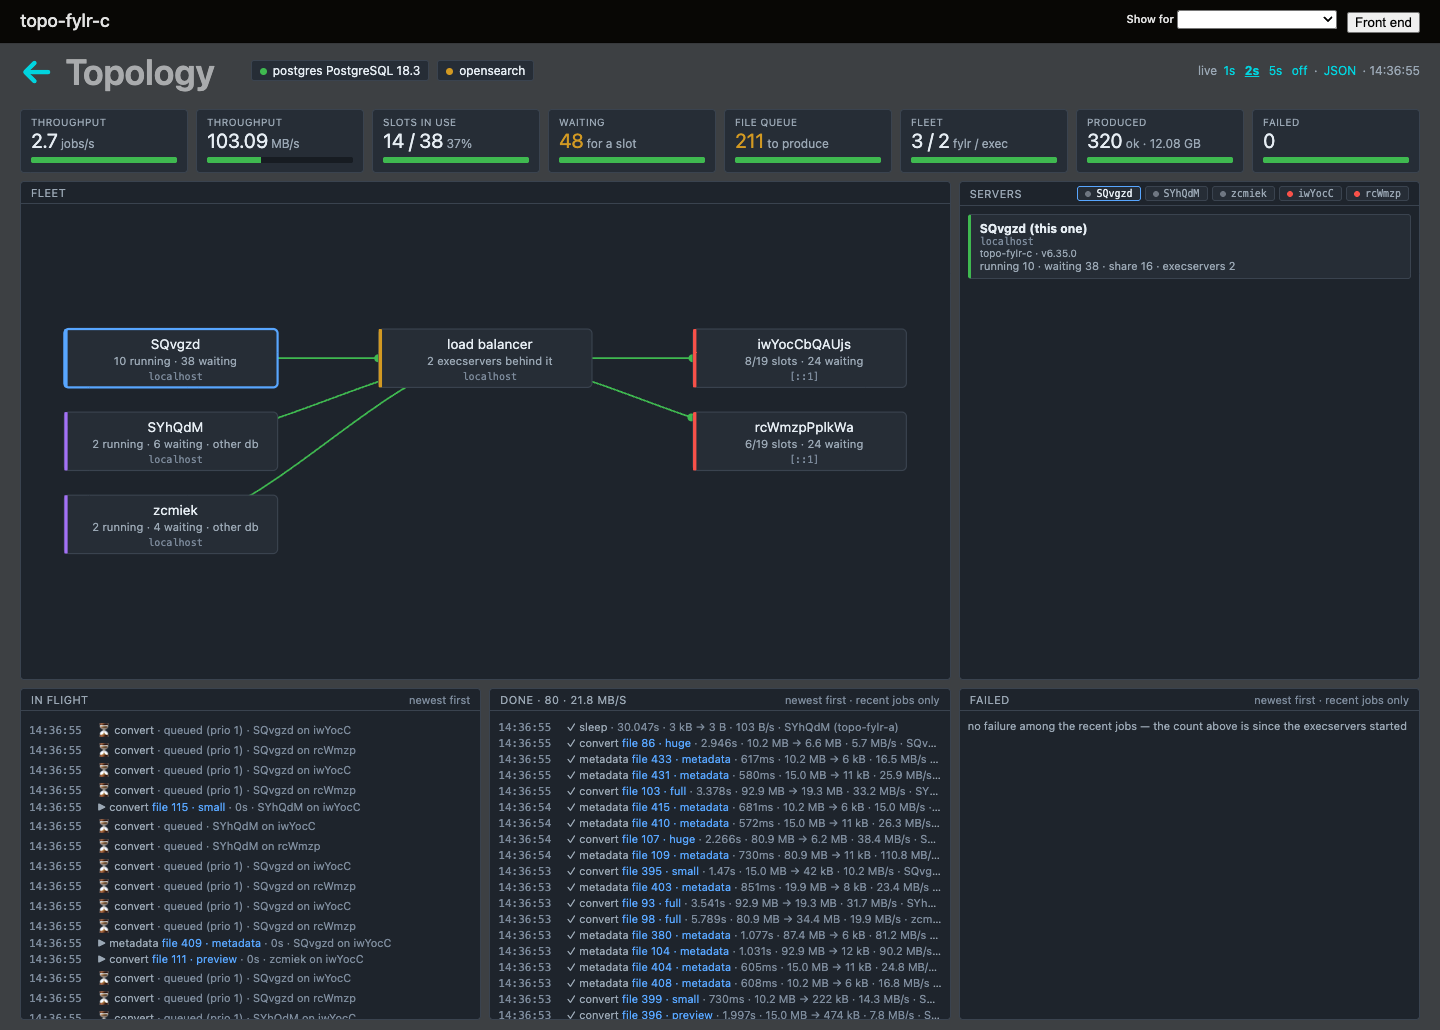
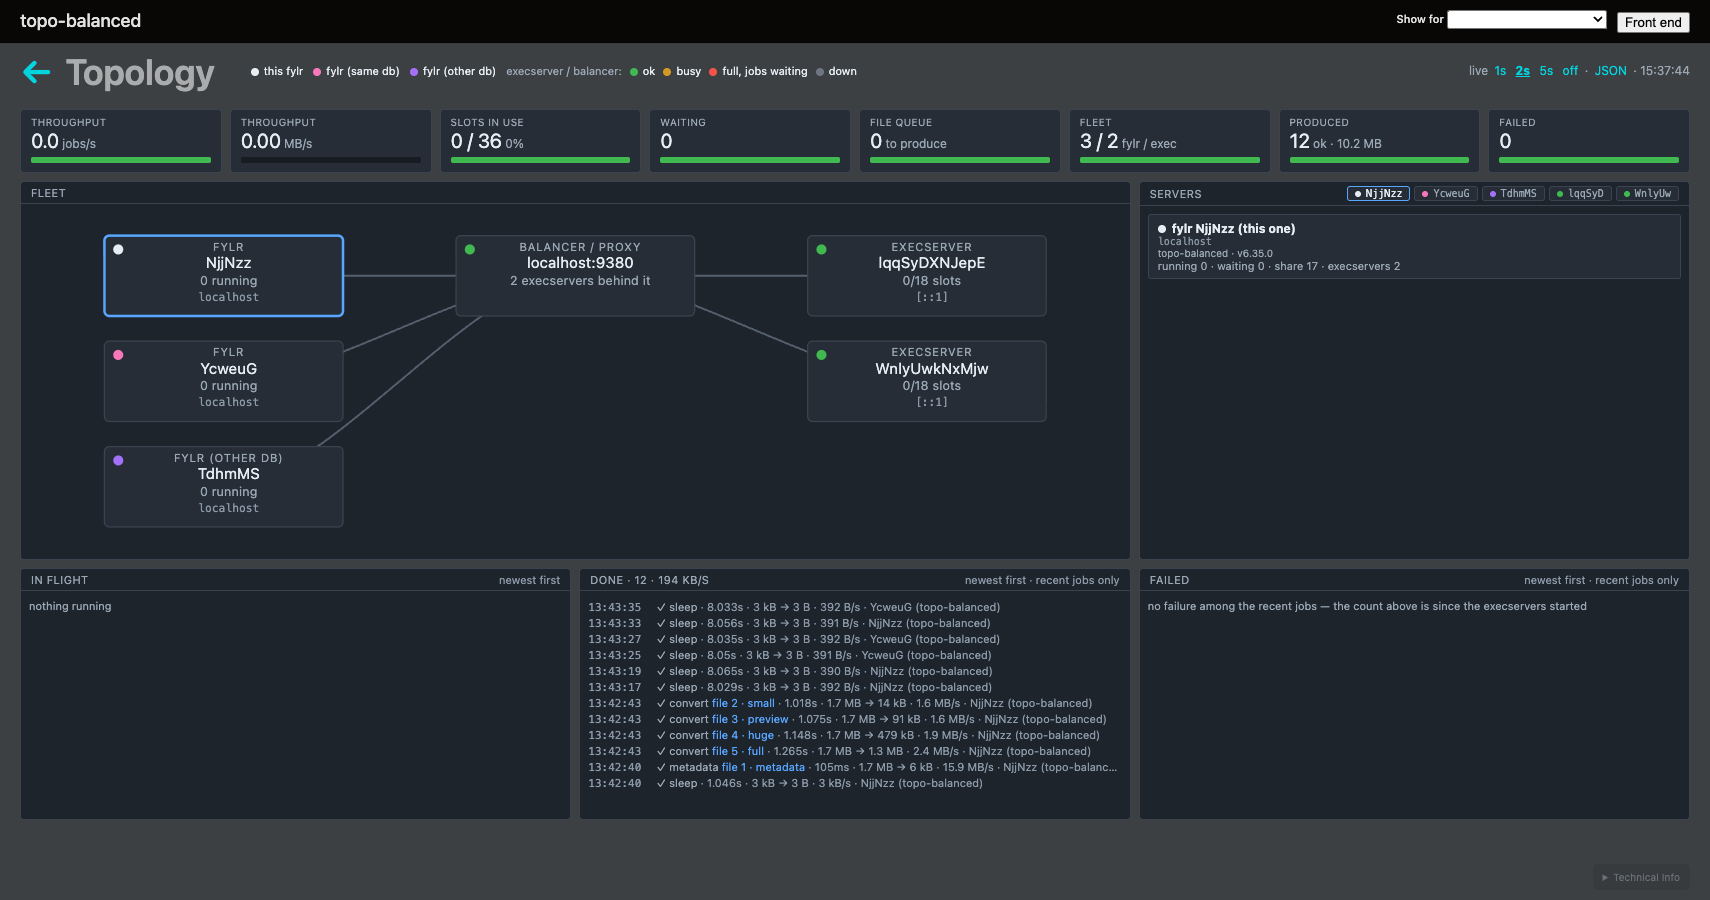
Inspect system: how to read the topology page (fylr 6.35)
Roles on every box, the dot legend, hostnames for execservers and the
box an unreachable address gets; the figure shows the current page.
The execserver row names the "This execserver" section.

see fylr #80136

diff --git a/for-system-administrators/inspect/system.md b/for-system-administrators/inspect/system.md
@@ -30,7 +30,7 @@ The dashboard also links the read-only runtime views:
 | --- | --- |
 | `system/janitor/` | the clean-up janitor's state — file deletion, trash draining, idle-user archiving |
 | `system/queues/` | the file and index job queues |
-| `system/execserver/` | the connected execservers, their services and — in auto-balance mode — the learned class and mean runtime per service |
+| `system/execserver/` | this process's own execserver when it runs one ("This execserver"), and the connected execservers with their services and — in auto-balance mode — the learned class and mean runtime per service |
 | `system/topology/` | from 6.35: the whole installation on one live page — see [Fleet topology](#fleet-topology) below |
 | `system/locations/` | the storage locations and their status |
 | `system/backups/` | the on-disk backups |
@@ -46,7 +46,20 @@ slot, what finished and what failed, with throughput and bytes moved. The page
 streams over a websocket and updates itself; the same data is served as JSON at
 `/inspect/system/topology/data`.
 
-<figure><img src="../../.gitbook/assets/topology-fleet.png" alt="The topology page of a fylr installation with three servers, two execservers and a load balancer"><figcaption><p>Three fylr servers sharing two execservers, reached through one load-balanced address. The counters across the top are installation-wide; the lists below are the jobs running, finished and failed right now.</p></figcaption></figure>
+<figure><img src="../../.gitbook/assets/topology-fleet.png" alt="The topology page of a fylr installation with three servers, two execservers and a load balancer"><figcaption><p>Three fylr servers — two replicas and one of another installation — sharing two execservers, reached through one load-balanced address. The counters across the top are installation-wide; the lists below are the jobs running, finished and failed right now.</p></figcaption></figure>
+
+Every box leads with its role — **fylr**, **fylr (other db)** for a fylr of
+another installation that shares an execserver, **execserver**, **balancer /
+proxy** for whatever rewrote the destination on the way (a Kubernetes Service,
+a load balancer, a port-forward) — and one dot in its corner carries the colour
+the legend in the header explains: white is the fylr serving the page, pink a
+fylr on the same database, purple one on another database; an execserver is
+green, yellow when busy, red when full with jobs waiting, grey when down or
+unreachable. The same dot marks the chips in the server list and the cards.
+Execservers are shown by their hostname, the one thing about them that
+survives a restart; the instance id, fresh with every process, stays next to
+the address. An address nothing answers on is drawn as its own box, with the
+error on its card.
 
 
 It is the page to open when the installation has more than one moving part:
